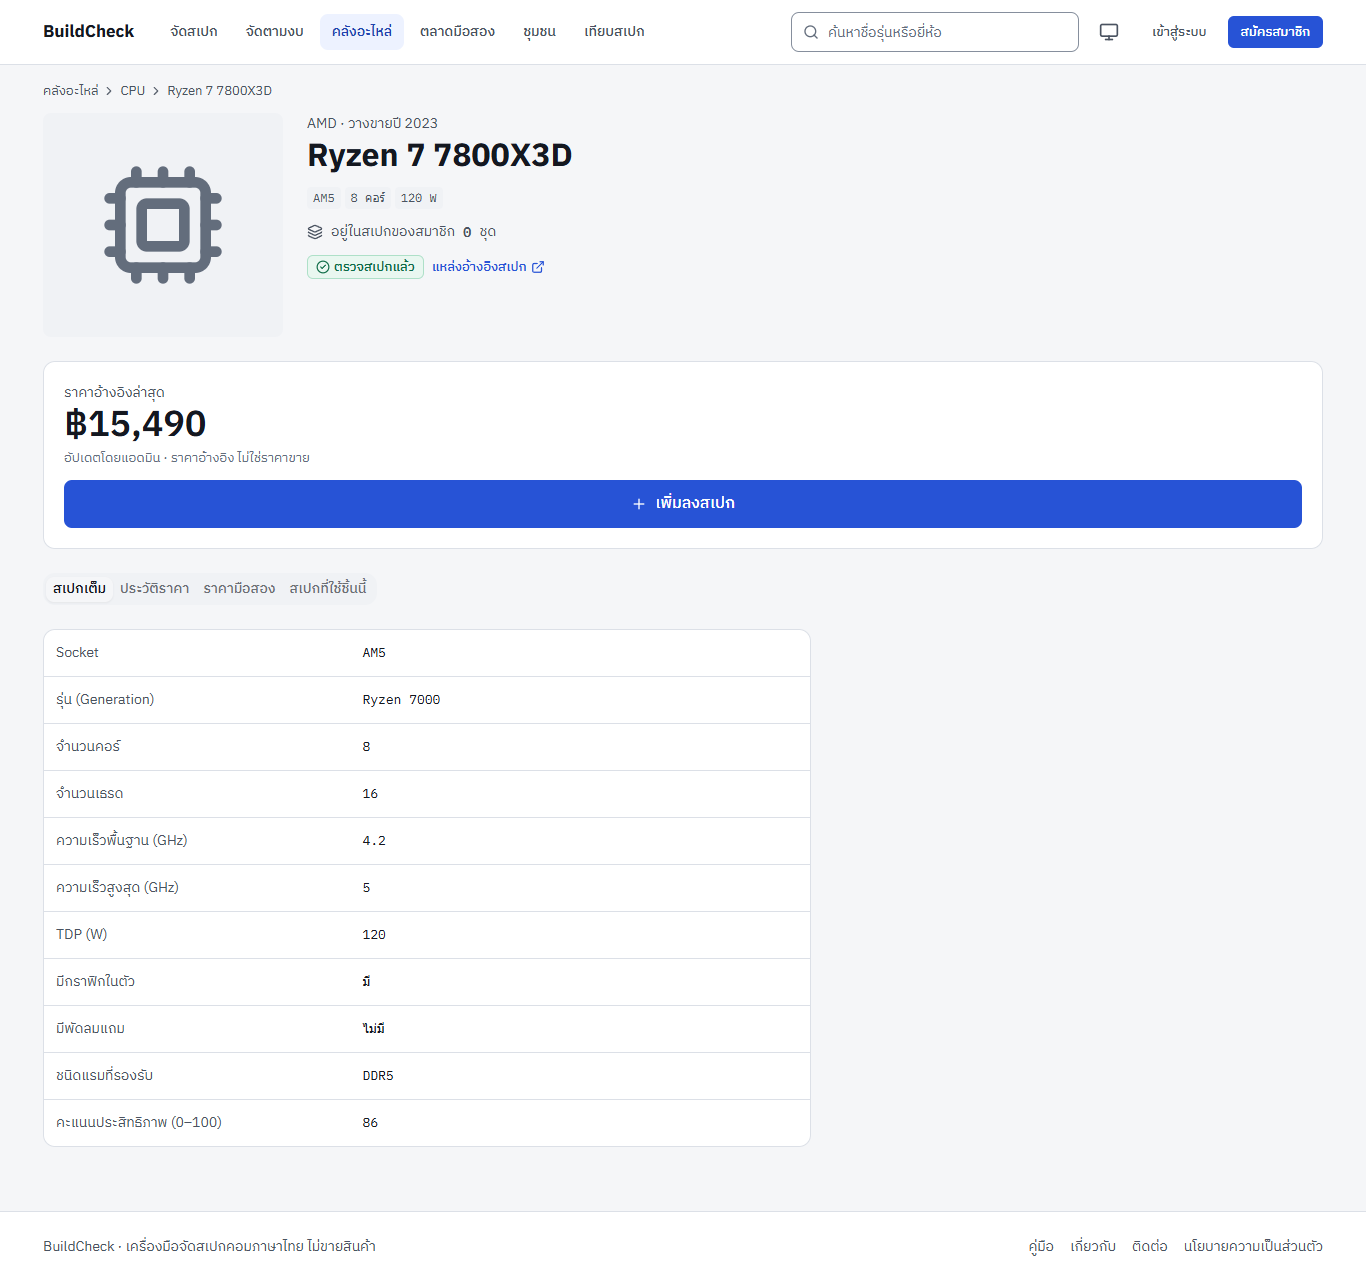
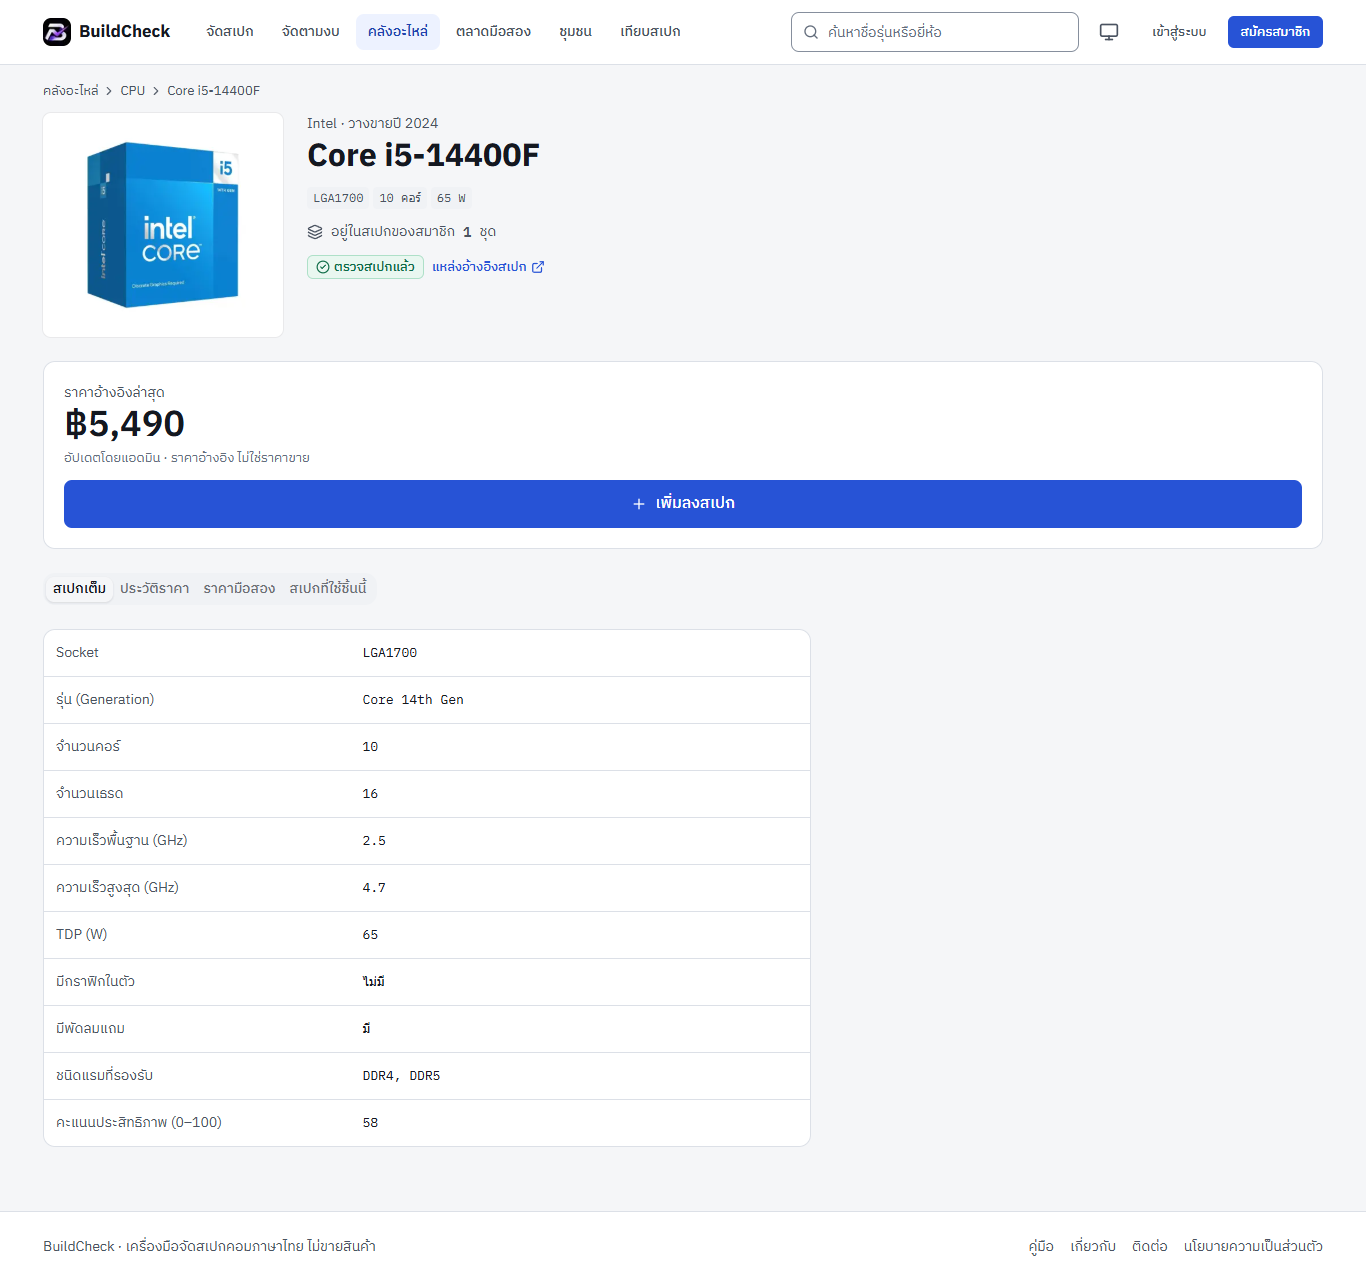
รูปหน้าจอ 01–17 ถ่ายใหม่จากเว็บจริง (มีรูปอะไหล่และโลโก้) และใส่คะแนน Lighthouse บนเว็บจริงลงเนื้อหาบทที่ 4 พร้อมสิ่งที่ปรับจากผลวัดครั้งแรก

diff --git a/docs/report-chapters-3-4.md b/docs/report-chapters-3-4.md
@@ -186,7 +186,7 @@ BuildCheck เป็นเว็บแอปพลิเคชันจัดส
 
 เว็บติดตั้งใช้งานจริงที่ **<https://buildcheck-th.vercel.app>** ซอร์สโค้ดอยู่ที่ <https://github.com/LasperX/BuildCheck>
 
-**รูปหน้าจอ (ถ่ายจากเว็บจริง)** ไฟล์อยู่ที่ `docs/screenshots/`
+**รูปหน้าจอ (ถ่ายจากเว็บจริงเมื่อ 10 พ.ย. 2569 มีรูปอะไหล่และโลโก้แล้ว)** ไฟล์อยู่ที่ `docs/screenshots/`
 
 | รูป | ไฟล์ | คำอธิบาย |
 |---|---|---|
@@ -258,7 +258,36 @@ BuildCheck เป็นเว็บแอปพลิเคชันจัดส
 
 **ตรวจหน้าเว็บในเบราว์เซอร์จริง:** 12 หน้าหลักทั้งขนาดคอม (1366 px) และมือถือ ไม่มี Error ในเบราว์เซอร์ และไม่มีหน้าไหนล้นจอแนวนอน
 
-**[รอกรอก] คะแนน Lighthouse บนเว็บจริง:** เปิดเว็บใน Chrome → F12 → แท็บ Lighthouse → Analyze page load แล้วบันทึกคะแนน Performance, Accessibility, Best Practices และ SEO (ระหว่างพัฒนา วัดในเครื่องแบบมือถือได้ 99–100 ทุกหมวด ใน 12 หน้า ตามบันทึกเฟส 13)
+**คะแนน Lighthouse บนเว็บจริง** วัดด้วย Lighthouse 13.6 (Chrome, จำลองมือถือและเน็ตช้าตามค่าเริ่มต้น) เมื่อ 10 พ.ย. 2569
+
+| หน้า | Performance | Accessibility | Best Practices | SEO |
+|---|---|---|---|---|
+| หน้าแรก (คอม) | 100 | 100 | 100 | 100 |
+| คลังอะไหล่ CPU (คอม) | 100 | 100 | 100 | 100 |
+| หน้าแรก | 98 | 100 | 100 | 100 |
+| จัดสเปก | 99 | 100 | 100 | 100 |
+| จัดสเปกตามงบ | 99 | 100 | 100 | 100 |
+| คลังอะไหล่ (ทุกหมวด) | 90 | 100 | 100 | 100 |
+| คลังอะไหล่ CPU | 92 | 100 | 100 | 100 |
+| ตลาดมือสอง | 100 | 100 | 100 | 100 |
+| ชุมชน | 100 | 100 | 100 | 100 |
+| คู่มือ | 100 | 100 | 100 | 100 |
+
+หน้าที่ไม่ได้ระบุว่า "คอม" วัดแบบมือถือ
+
+**ปรับปรุงจากผลวัดครั้งแรก:** หลังใส่รูปอะไหล่ หน้าคลังอะไหล่บนมือถือได้ Performance 71–80 เพราะ
+- ส่งรูปขนาดเต็ม 800 px ให้มือถือ
+- หน้ากระตุกตอนรายการโหลดเสร็จ (CLS 0.11–0.25)
+
+แก้โดย
+- ให้ Next.js ย่อรูปตามขนาดที่แสดงจริง
+- รูปแถวแรกโหลดก่อน
+- รายการหน้าแรกมากับ HTML จากเซิร์ฟเวอร์
+- โครงตอนโหลดสูงเท่าของจริง
+
+หลังแก้ได้ Performance 90–92 และ CLS ลดเหลือ 0–0.015
+
+หน้าแรกมือถือเคยได้ Accessibility 96 เพราะแอนิเมชันตอนเลื่อนทำให้ตัวอักษรจางชั่วขณะ จึงเปลี่ยนเป็นเลื่อนอย่างเดียวไม่จาง ได้ 100
 
 ### 4.4 ผลการประเมินความพึงพอใจ
 
